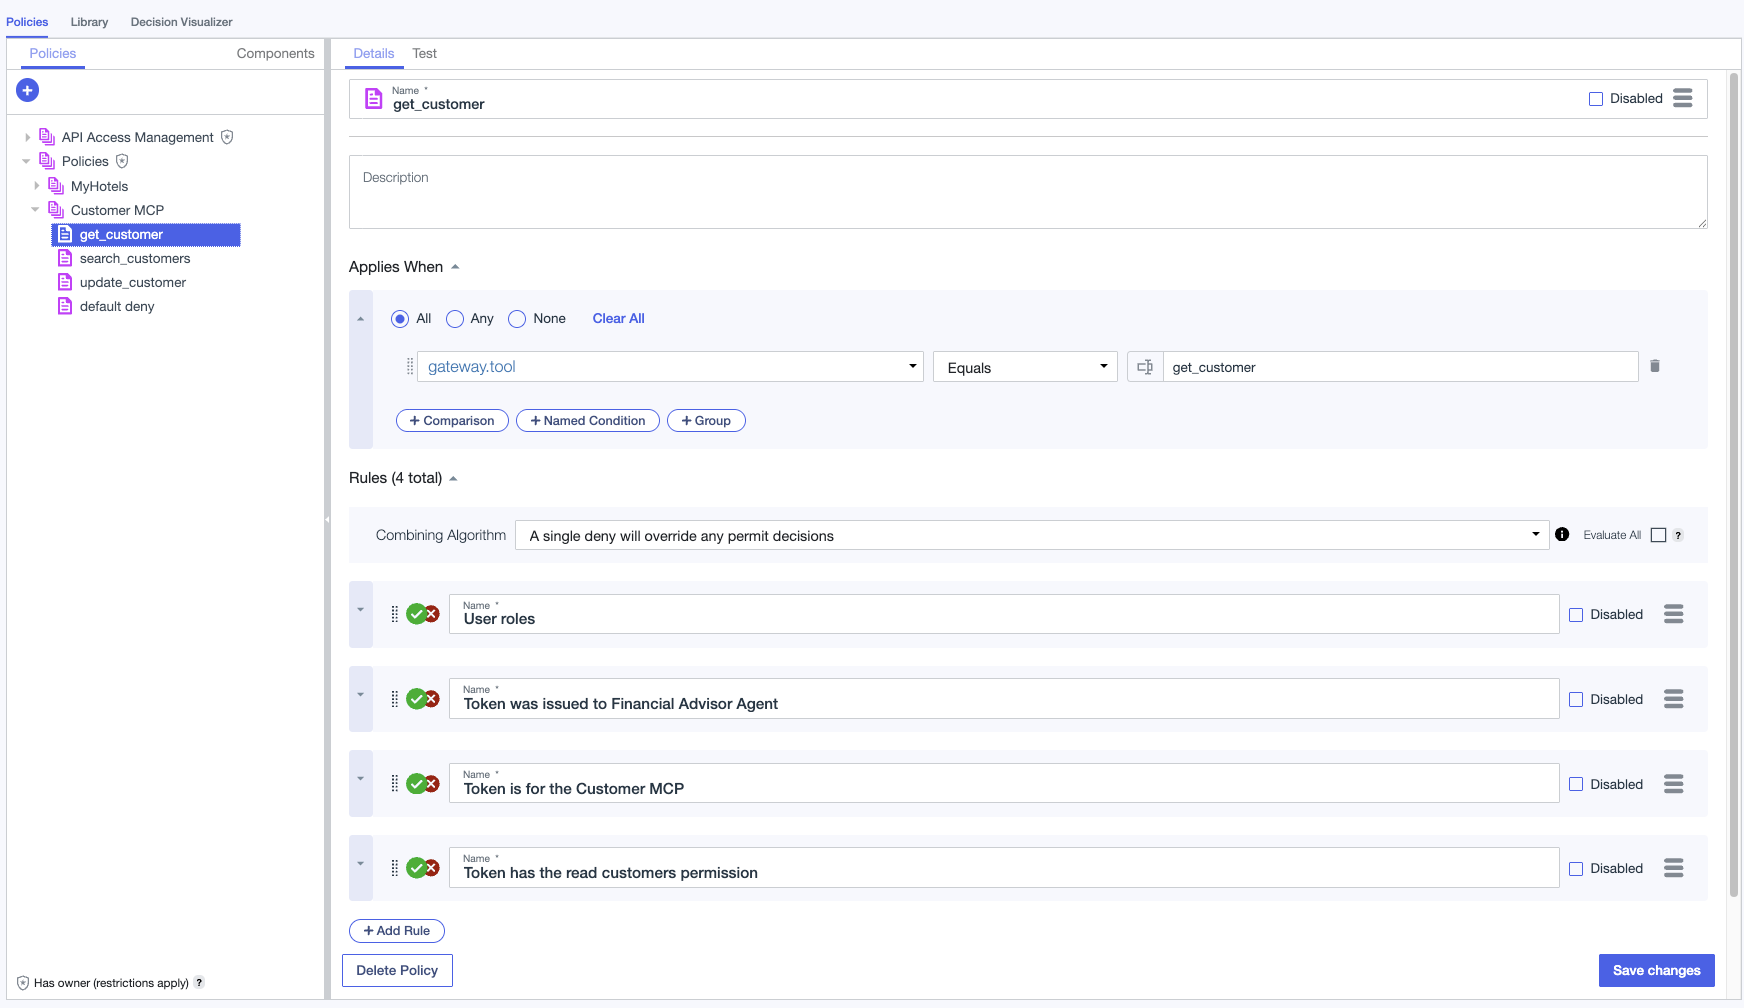
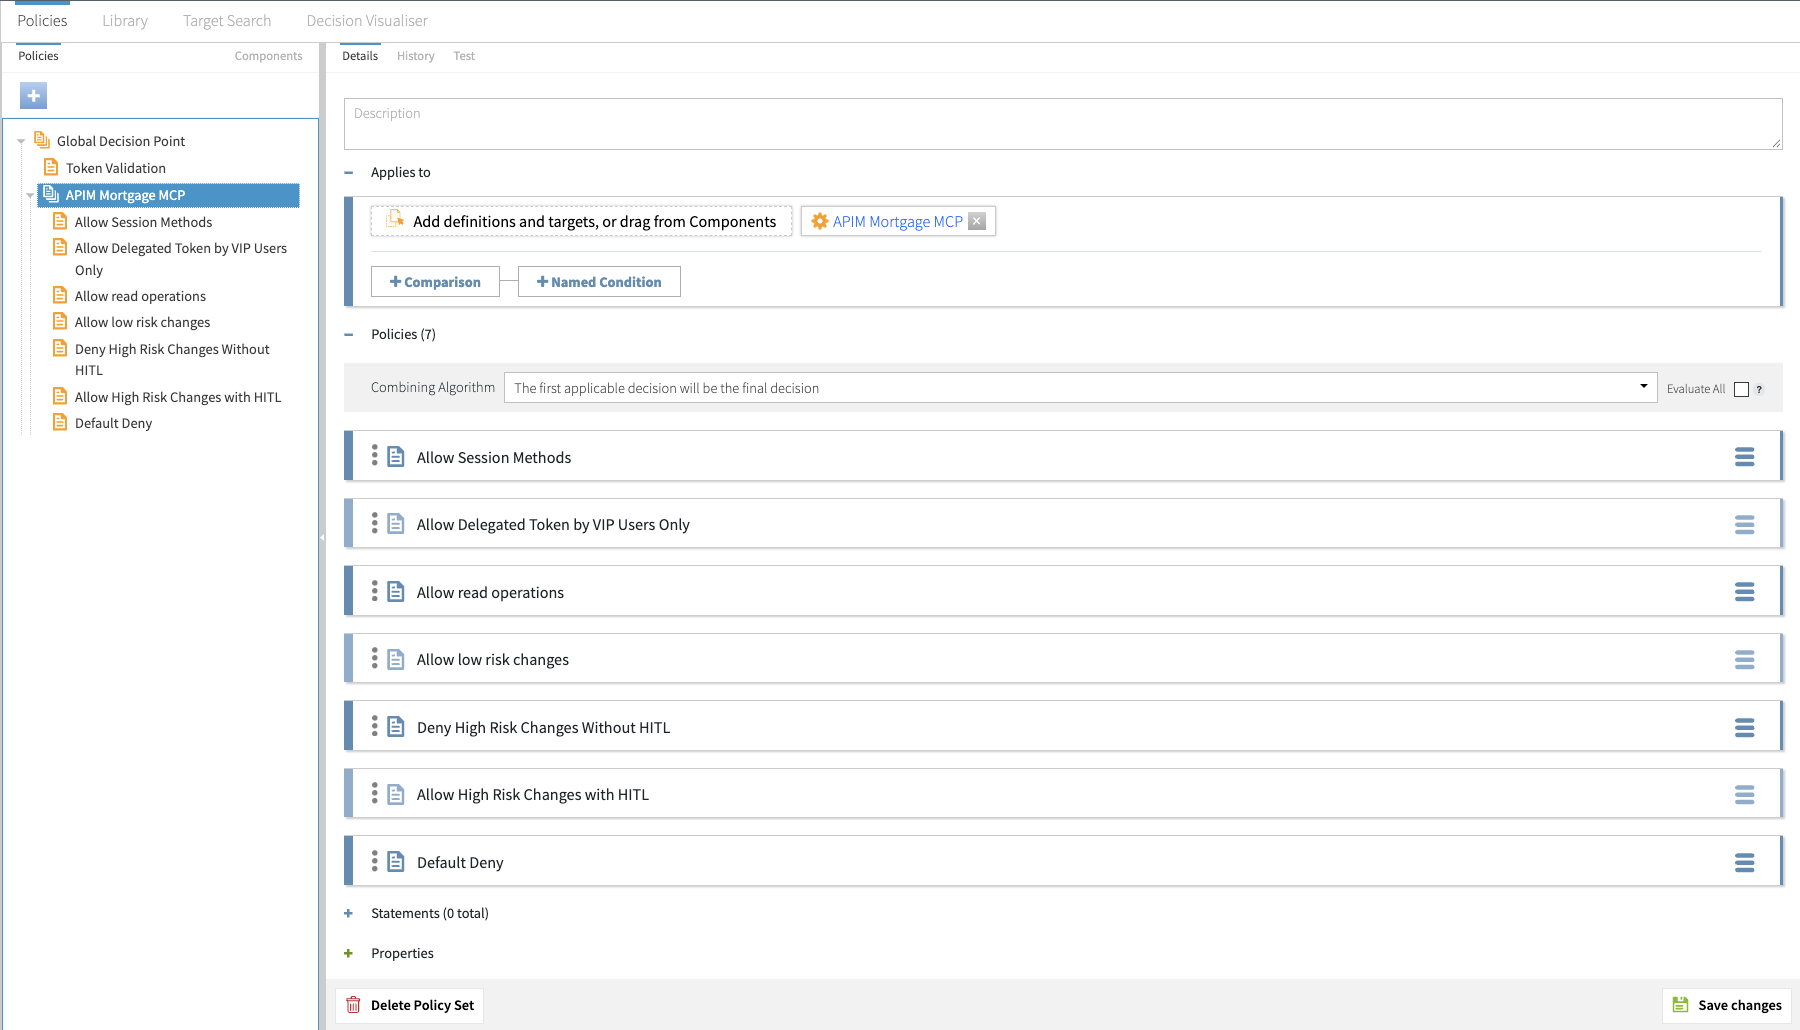
Publish ready articles from blogger-agent

diff --git a/_posts/2026-08-04-centralizing-mcp-authorization-with-p1authorize-part-1-azure-apim.md b/_posts/2026-08-04-centralizing-mcp-authorization-with-p1authorize-part-1-azure-apim.md
@@ -50,9 +50,7 @@ PingAuthorize solves those challenges by centralizing **policy evaluation**: it 
 
 ## The solution
 
-The first implementation in this series protects a demo Mortgage MCP Server using Azure API Management. APIM is extended via an APIM Policy Fragment that forwards the entire original MCP request to the PingAuthorize Sideband API, and then either forwards the call to the MCP server or relays the authorization denial to the caller.
-
-The Sideband API is a reverse-proxy authorization interface: instead of sending a distilled authorization request, the enforcement point sends the original HTTP traffic — method, URL, headers, and body — to the PDP, which evaluates policy against the raw request context and returns the decision.
+The first implementation in this series implements an APIM Policy Fragment that delegates the authorization decisions to PingAuthorize. The fragment forwards the entire original MCP request to the PingAuthorize Sideband API, and then either forwards the call to the MCP server or relays the authorization denial to the caller.
 
 The following diagram depicts the components in the implementation and their interactions.
 
@@ -86,23 +84,72 @@ flowchart LR
 - **PingAuthorize Sideband API** — acts as the Policy Decision Point. Receives the original request, evaluates policy over the full HTTP context, and either allows the call through (no response object) or returns a complete denial response for the PEP to relay.
 - **Protected MCP** — the protected MCP server (in our context a demo Mortgage MCP), receives requests only after APIM allows them through.
 
-The important boundary is that APIM does not contain the business authorization logic. It forwards the raw request, and enforces whatever comes back.
+The important aspect is that APIM does not contain the business authorization logic. It forwards the raw request, and enforces whatever comes back.
 
 > **Scope note:** This article focuses on the authorization integration between APIM and PingAuthorize. Token validation, token exchange, and backend MCP server security are outside the scope of this article. In a production setup, APIM would exchange the inbound token for a backend-scoped token before calling the MCP server. For simplicity, the demo MCP server is left open and no token exchanges have been configured in APIM.
 
 ## The Sideband Integration Model
 
-A common alternative is a decision endpoint: the PEP parses the request, extracts relevant attributes into a custom payload, and asks the PDP for a decision. That works, but the mapping logic — which fields matter, how they are named and serialized — lives in the PEP and must be kept in sync with the policies.
-
-The Sideband API removes that mapping layer. The PEP sends the original request as it arrived, and PingAuthorize evaluates policy against the full HTTP context: request method, URL, headers (including the `Authorization` bearer token and its claims), query parameters, client IP, and the request body. If a new policy needs a request field that was not previously forwarded, there is no PEP change to make — the data is already there.
+The Sideband API removes that mapping layer. The PEP sends the original request as it arrived, and PingAuthorize evaluates policy against the full HTTP context: request method, URL, headers (including the `Authorization` bearer token and its claims), query parameters, client IP, and the request body. 
 
 The integration follows three rules:
 
 1. **Permit** — the PDP returns HTTP 200 with no top-level `response` object. The PEP continues to the backend.
-2. **Deny** — the PDP returns HTTP 200 with a top-level `response` object containing a complete response to hand back to the client: status code, reason, headers (including `WWW-Authenticate`), and body.
-3. **Fail closed** — any transport failure or non-200 result is an integration error, never an access grant.
+2. **Deny** — the PDP returns HTTP 200 with a top-level `response` object containing a complete response to hand back to the client: status code, reason, headers (including `WWW-Authenticate`), and body. The status in that object is the PDP's choice, not the PEP's: `401` with a `WWW-Authenticate` header when the token is invalid or a step-up is required, `403` when the request is authenticated but not authorized. The PEP relays it verbatim.
+3. **Fail closed** — any transport failure or non-200 result is an integration error, not an authorization decision. The PEP does not continue and returns `502 Bad Gateway` (`sideband-unavailable` for a failed call, `sideband-error` for a non-200 reply) — an unreachable PDP never becomes implicit access.
 
 This split also has a security benefit for authentication: a denial can carry a `401` with a `WWW-Authenticate` challenge (token invalid or a step-up required) instead of a generic `403`, so the client can react to authentication and authorization failures differently.
+
+
+For an MCP call such as:
+
+```json
+{
+    "jsonrpc": "2.0",
+    "id": 2,
+    "method": "tools/call",
+    "params": {
+        "name": "get_mortgage_summary",
+        "arguments": {
+            "customerId": "CUST-10001"
+        }
+    }
+}
+```
+
+the Sideband request the fragment sends to the PingAuthorize sideband endpoint the following request:
+
+```json
+{
+  "source_ip": "203.0.113.10",
+  "source_port": 5034,
+  "method": "POST",
+  "url": "https://apimid4ai.azure-api.net/mortgage-mcp/mcp/mortgage",
+  "http_version": "1.1",
+  "headers": [
+    { "Accept": "application/json" },
+    { "Content-Type": "application/json" },
+    { "Host": "apimid4ai.azure-api.net" },
+    { "Authorization": "Bearer <agent-access-token>" }
+  ],
+  "body": "{\"jsonrpc\":\"2.0\",\"id\":2,\"method\":\"tools/call\",\"params\":{\"name\":\"get_mortgage_summary\",\"arguments\":{\"customerId\":\"CUST-10001\"}}}"
+}
+```
+
+A PERMIT returns HTTP 200 with no `response` object; a DENY returns HTTP 200 with one:
+
+```json
+{
+  "response": {
+    "response_code": 403,
+    "response_status": "Forbidden",
+    "headers": [
+      { "Content-Type": "application/json" }
+    ],
+    "body": "{\"jsonrpc\":\"2.0\",\"id\":2,\"error\":{\"code\":-32003,\"message\":\"Forbidden\"}}"
+  }
+}
+```
 
 ## The APIM Policy Fragment
 
@@ -188,7 +235,7 @@ The envelope mirrors the original request. APIM rebuilds the full request URL (s
 }" />
 ```
 
-One field deserves an explanation. APIM policy expressions cannot access the originating TCP source port, but the Sideband API requires a `source_port` value between 1 and 65535. The fragment therefore uses a fixed synthetic value (`5034`), matching the reference implementation the fragment was modeled on. If your policies need the real client port, this is a known limitation to plan around.
+APIM policy expressions cannot access the originating TCP source port, but the Sideband API requires a `source_port` value between 1 and 65535. The fragment therefore uses a fixed synthetic value (`5034`).
 
 ### 3. Call the Sideband API
 
@@ -220,9 +267,7 @@ The fragment posts the envelope to `{endpoint}/sideband/request`, authenticating
 </send-request>
 ```
 
-The credential header name is part of the Sideband API configuration, so it must match what your PingAuthorize Sideband API endpoint expects — `PDG-TOKEN` here, `CLIENT-TOKEN` in some other integrations.
-
-Note that unlike a decision-endpoint integration, the fragment does **not** fetch an OAuth token. The shared secret authenticates the PEP to the PDP directly, which removes an entire token-acquisition round trip (and the token-caching policies that production would otherwise require).
+The credential header name is part of the Sideband API configuration, so it must match what your PingAuthorize Sideband API endpoint expects — `PDG-TOKEN` here.
 
 ### 4. Enforce the Decision
 
@@ -253,9 +298,7 @@ First, fail closed on transport problems. A failed call leaves the response vari
 </choose>
 ```
 
-A non-200 status is also an integration error — not an authorization denial — and returns `502` with a `sideband-error` code.
-
-With HTTP 200 in hand, the semantics are simple: a top-level `response` object means DENY; its absence means PERMIT.
+A non-200 status is also an integration error — not an authorization denial — and returns `502` with a `sideband-error` code. With HTTP 200, the semantics are simple: a top-level `response` object means DENY; its absence means PERMIT.
 
 ```xml
 <set-variable
@@ -308,84 +351,9 @@ Finally, the denial is returned with the authorization service's status, reason,
 
 The fragment also supports a temporary diagnostics mode: when `{{AuthorizeSidebandDebug}}` is `true`, denials and integration errors return the redacted Sideband request (with `Authorization`, `Cookie`, and `Proxy-Authorization` headers masked) and the complete authorization response to the API client, which makes endpoint and payload mistakes obvious during setup. Remove it before production.
 
-## The Sideband Request
-
-For an MCP call such as:
-
-```json
-{
-    "jsonrpc": "2.0",
-    "id": 2,
-    "method": "tools/call",
-    "params": {
-        "name": "get_mortgage_summary",
-        "arguments": {
-            "customerId": "CUST-10001"
-        }
-    }
-}
-```
-
-the Sideband request the fragment sends looks like:
-
-```json
-{
-  "source_ip": "203.0.113.10",
-  "source_port": 5034,
-  "method": "POST",
-  "url": "https://apimid4ai.azure-api.net/mortgage-mcp/mcp/mortgage",
-  "http_version": "1.1",
-  "headers": [
-    { "Accept": "application/json" },
-    { "Content-Type": "application/json" },
-    { "Host": "apimid4ai.azure-api.net" },
-    { "Authorization": "Bearer <agent-access-token>" }
-  ],
-  "body": "{\"jsonrpc\":\"2.0\",\"id\":2,\"method\":\"tools/call\",\"params\":{\"name\":\"get_mortgage_summary\",\"arguments\":{\"customerId\":\"CUST-10001\"}}}"
-}
-```
-
-The same call can be reproduced with `curl`, which is exactly how the reference test client exercises the endpoint:
-
-```bash
-curl -s "https://paz.example.com:7443/sideband/request" \
-  -H "PDG-TOKEN: $SIDEBAND_CREDENTIAL" \
-  -H "Content-Type: application/json" \
-  -H "Accept: application/json" \
-  -d '{
-    "source_ip": "203.0.113.10",
-    "source_port": 5034,
-    "method": "POST",
-    "url": "https://apimid4ai.azure-api.net/mortgage-mcp/mcp/mortgage",
-    "http_version": "1.1",
-    "headers": [
-      { "Accept": "application/json" },
-      { "Content-Type": "application/json" },
-      { "Host": "apimid4ai.azure-api.net" },
-      { "Authorization": "Bearer <agent-access-token>" }
-    ],
-    "body": "{\"jsonrpc\":\"2.0\",\"id\":2,\"method\":\"tools/call\",\"params\":{\"name\":\"get_mortgage_summary\",\"arguments\":{\"customerId\":\"CUST-10001\"}}}"
-  }'
-```
-
-A PERMIT returns HTTP 200 with no `response` object; a DENY returns HTTP 200 with one:
-
-```json
-{
-  "response": {
-    "response_code": 403,
-    "response_status": "Forbidden",
-    "headers": [
-      { "Content-Type": "application/json" }
-    ],
-    "body": "{\"jsonrpc\":\"2.0\",\"id\":2,\"error\":{\"code\":-32003,\"message\":\"Forbidden\"}}"
-  }
-}
-```
-
 ## Policies
 
-The demo authorizes a mortgage MCP server. The inbound token carries the scopes the caller holds, plus — when the call is delegated — the human principal and the agent acting on their behalf:
+To test the fragemnt I used a demo mortgage MCP server. The inbound token carries the scopes the caller holds, plus — when the call is delegated — the human principal and the agent acting on their behalf:
 
 ```json
 {
@@ -414,15 +382,56 @@ The demo policies for the mortgage service, in evaluation order (first applicabl
 | 6 | Risky Changes – Approved | risky `changeType` and `approved_for = submit_mortgage_change_request` | PERMIT |
 | 7 | Default Deny | anything else | DENY |
 
-Expired or invalid tokens are rejected earlier by token validation, so the matrix above only sees well-formed tokens. Three design ideas are worth calling out:
+Expired or invalid tokens are rejected earlier by token validation, so the matrix above only sees well-formed tokens. For this demo I followed these authorization principles:
 
 - **Scopes are capability classes, policies map tools to classes.** Tokens carry coarse scopes (`mortgage:read`, `mortgage:write`); the policy decides which tools they cover. Adding a tool never requires re-issuing tokens.
 - **Risk lives in the payload, not the tool.** The same `submit_mortgage_change_request` call flips between permit and approval-required based on the `changeType` argument — the sideband model makes the full payload available to policy without any gateway-side mapping.
 - **Human-in-the-loop is deny-with-challenge.** The PDP cannot pause a decision. Risky changes are denied with an `approval_required` challenge; once a human approves out-of-band, the approval is minted into a short-lived, purpose-bound token claim (`approved_for`), and the same call retried flows through the approval rule. Delegation is gated the same way: only VIP subjects may be operated through the delegated agent.
 
-The e2e test suite in the reference project runs the full matrix through the live chain — 14 assertions covering the session methods, reads, benign and risky changes, approval retry, unknown tools, expired tokens, and the delegation gate — asserting 200 permit, 403 policy deny, or 401 invalid token on each.
+## Testing the Policies Against the Demo Mortgage MCP
 
-The following picture shows what such a policy looks like in the policy designer (shown here in PingOne Authorize, the cloud counterpart of PingAuthorize).
+I tested the policy set against the demo mortgage MCP server through the full chain — client, APIM, sideband, PingAuthorize, backend — using an end-to-end test suite that mints every scenario token on the fly with explicit claims, so each scenario is self-documenting. The suite runs fourteen assertions across two matrices: a core policy matrix and a delegation matrix, each asserting the expected outcome (200 permit, 403 policy deny, or 401 invalid token).
+
+The policies under test layer four independent controls over a single tool, `submit_mortgage_change_request`, and those four controls are what the rest of this section walks through.
+
+### Scopes Are Capability Classes
+
+Tokens carry coarse scopes — `mortgage:read`, `mortgage:write` — and the policies map tools onto those classes. Read tools (`get_mortgage_summary`, `calculate_affordability`, `generate_rate_quote`) require `mortgage:read`; changes require `mortgage:write`. The scope is the capability class; the policy, not the token issuer, decides which tools belong to it. Adding a new tool never requires re-issuing tokens — one policy edit maps it to a class. This also means a write-only token cannot sneak into a read tool: the mapping is enforced in one place, not per tool.
+
+### Risk Lives in the Payload, Not the Tool
+
+The same tool call is permitted or challenged based on its `changeType` argument, which a JSONPath attribute (`MCP Change Type`) parses straight out of the JSON-RPC body. Tool-level authorization alone would be too coarse: moving a payment date and switching the mortgage rate are both "a write," but they are not both acceptable without a human. Renaming a due date (`PAYMENT_DATE`) is economically harmless and permitted on `mortgage:write`; switching the rate, extending the term, or overpaying (`RATE_SWITCH`, `TERM_CHANGE`, `OVERPAYMENT`) trigger the human-in-the-loop path.
+
+### Human-in-the-Loop Is Deny-Then-Challenge, Then Re-authorization
+
+A PDP decision is synchronous — it cannot pause mid-decision and wait for a human. So the risky path works as a two-phase loop:
+
+1. The agent submits a risky change. Policy 5 denies with a `403` carrying a machine-readable `approval_required` challenge. Nothing was executed — the denial is the challenge.
+2. A human approves in a portal. The authorization server performs the approval step-up and issues a new, short-lived transaction token whose claims mirror the exact approved transaction:
+
+```json
+{
+  "approved_for": "submit_mortgage_change_request",
+  "tctx": {
+    "tool": "submit_mortgage_change_request",
+    "changeType": "TERM_CHANGE",
+    "mortgageId": "MORT-90001",
+    "requestedValue": "30 years"
+  }
+}
+```
+
+This follows the transaction-token idea ([draft-ietf-oauth-transaction-tokens](https://datatracker.ietf.org/doc/draft-ietf-oauth-transaction-tokens/){:target="_blank"}): the AS mints short-lived, narrowly scoped tokens whose `tctx` carries the signed transaction details that downstream authorization compares against. In this demo the transaction claims travel inside the access token itself — as if the AS had minted it after the approval step-up — rather than in a separate Txn-Token header.
+
+3. The agent retries the identical call with that token. Policy 6 compares every `tctx` claim against the payload, attribute to attribute: `tctx.tool` against the MCP tool name, `tctx.changeType` against the parsed change type, `tctx.mortgageId` against the mortgage in the payload. Any drift — a different change type, a different mortgage — breaks the mirror and the risky call is denied again. Same call plus a token without approval is a `403`; the same call plus the approval token is a `200`. The enforcement point never changes; only the credential does.
+
+The approval is purpose-bound and short-lived. It is not a blanket capability: replaying the token against a different mortgage breaks the mirror and is denied, and expiry is the revocation. (Production hardening beyond the demo: the backend should reject a transaction context it never issued, and a spent transaction id should not be redeemable twice.)
+
+### Delegation Is a First-Class Gate
+
+Classic token-exchange tokens (RFC 8693) carry the human in `sub` — plus a `sub_type` such as `vip_user` — and the acting agent in `act.sub`. The delegation gate enforces that only VIP subjects may be operated through the delegated agent: a `standard_user` behind the same `customer_support_agent` gets `403 delegation_not_permitted`, while direct (non-delegated) users are untouched by the gate. The agent's identity is thus evaluated as part of the decision, not just logged. The delegation matrix in the test suite proves this with four scenarios — VIP behind the agent, standard user behind the same agent, VIP calling directly, and the combined VIP-plus-approval path.
+
+The following picture shows what such a policy looks like in the policy designer.
 ![Policy — showing the rule set described above enforced for the mortgage MCP service](/assets/img/pingone-authorize-policy-customer-mcp.png)
 
 The following two pictures show how the Decision Visualizer depicts its decisioning process. The first shows a PERMIT evaluation; the second shows a DENY due to an invalid actor subject.
@@ -430,18 +439,10 @@ The following two pictures show how the Decision Visualizer depicts its decision
 
 ![Decision outcome — showing DENY with resolved attributes and statement details](/assets/img/pingone-authorize-policy-evaluation-denied.png)
 
-> Note: the screenshots above are from the earlier customer-MCP demo; the current mortgage demo uses the same designer and visualizer, so the screens differ only in attribute and rule names.
 
 ## Key Takeaways
 
 This article explained how PingAuthorize provides centralized dynamic authorization for Azure API Management. APIM acts as a Policy Enforcement Point for MCP servers without embedding business authorization rules in the gateway or in the protected MCP servers themselves. The policy fragment is the only integration artifact needed, and because it speaks the Sideband API — shared between PingAuthorize software and PingOne Authorize in the cloud — the same artifact enforces the same policies against either deployment.
-
-Compared with a decision-endpoint integration, the sideband model keeps the PEP thin:
-
-- the PEP forwards the original request instead of mapping it into a custom payload, so no context-extraction logic lives in the gateway
-- the PEP authenticates with a shared secret instead of maintaining its own OAuth client and token cache
-- denials relay the PDP's status, challenge, and body verbatim, so authentication failures (`401` + `WWW-Authenticate`) stay distinguishable from authorization failures (`403`)
-- missing or unreachable PDP results in a fail-closed `502`, never silent access
 
 This pattern is most useful when:
 
